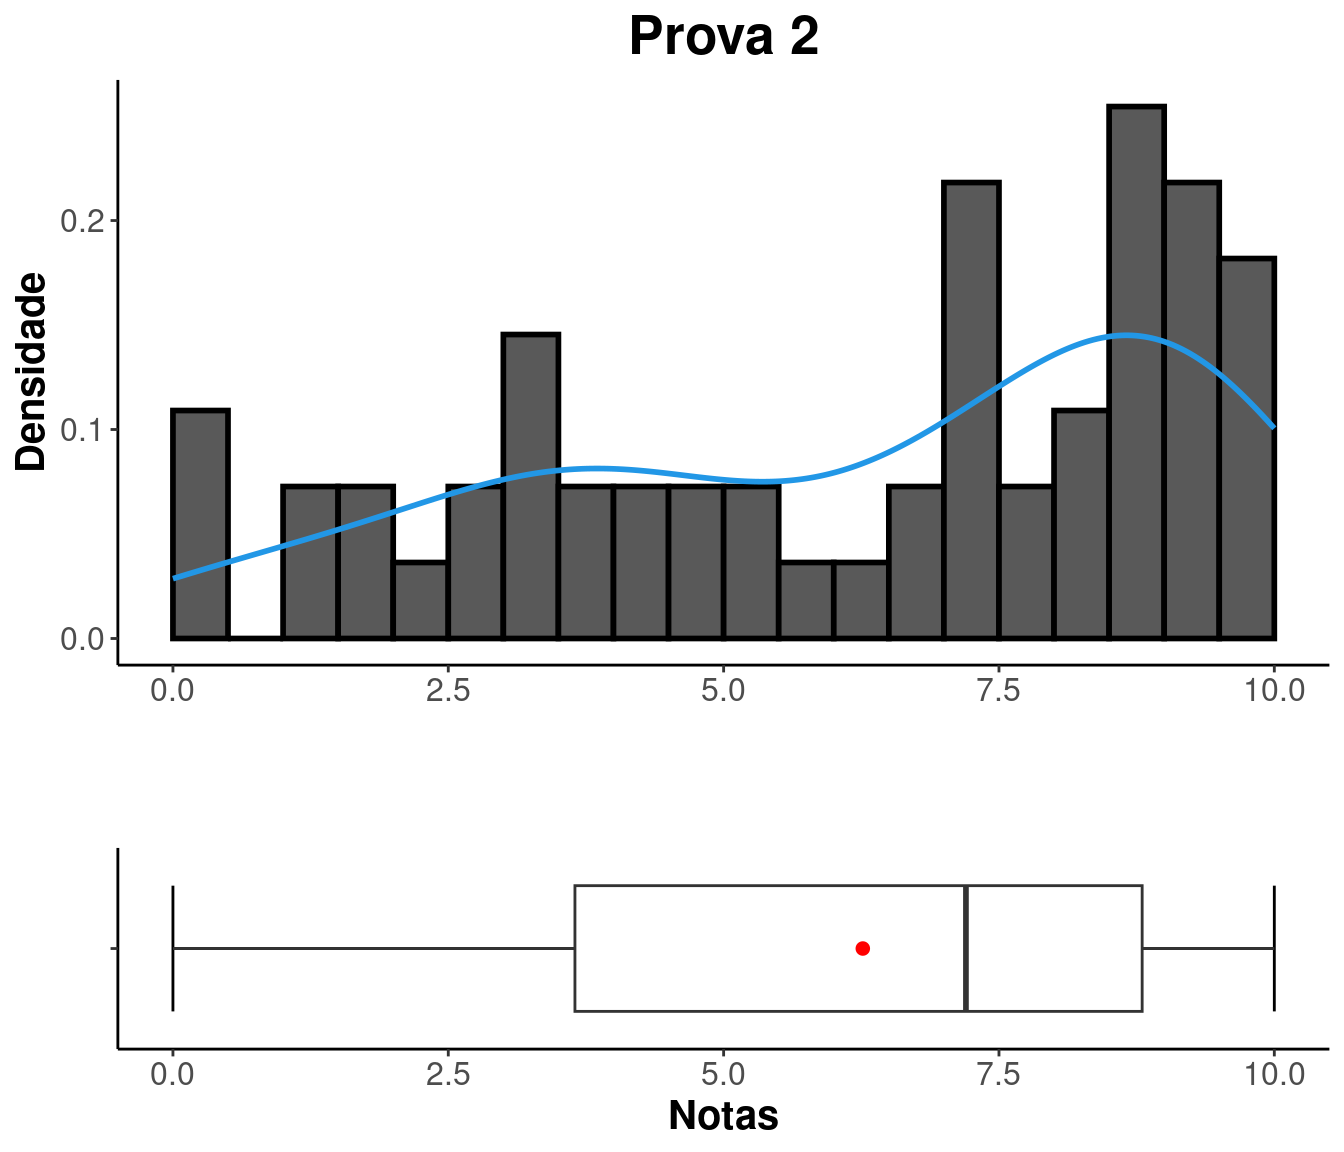
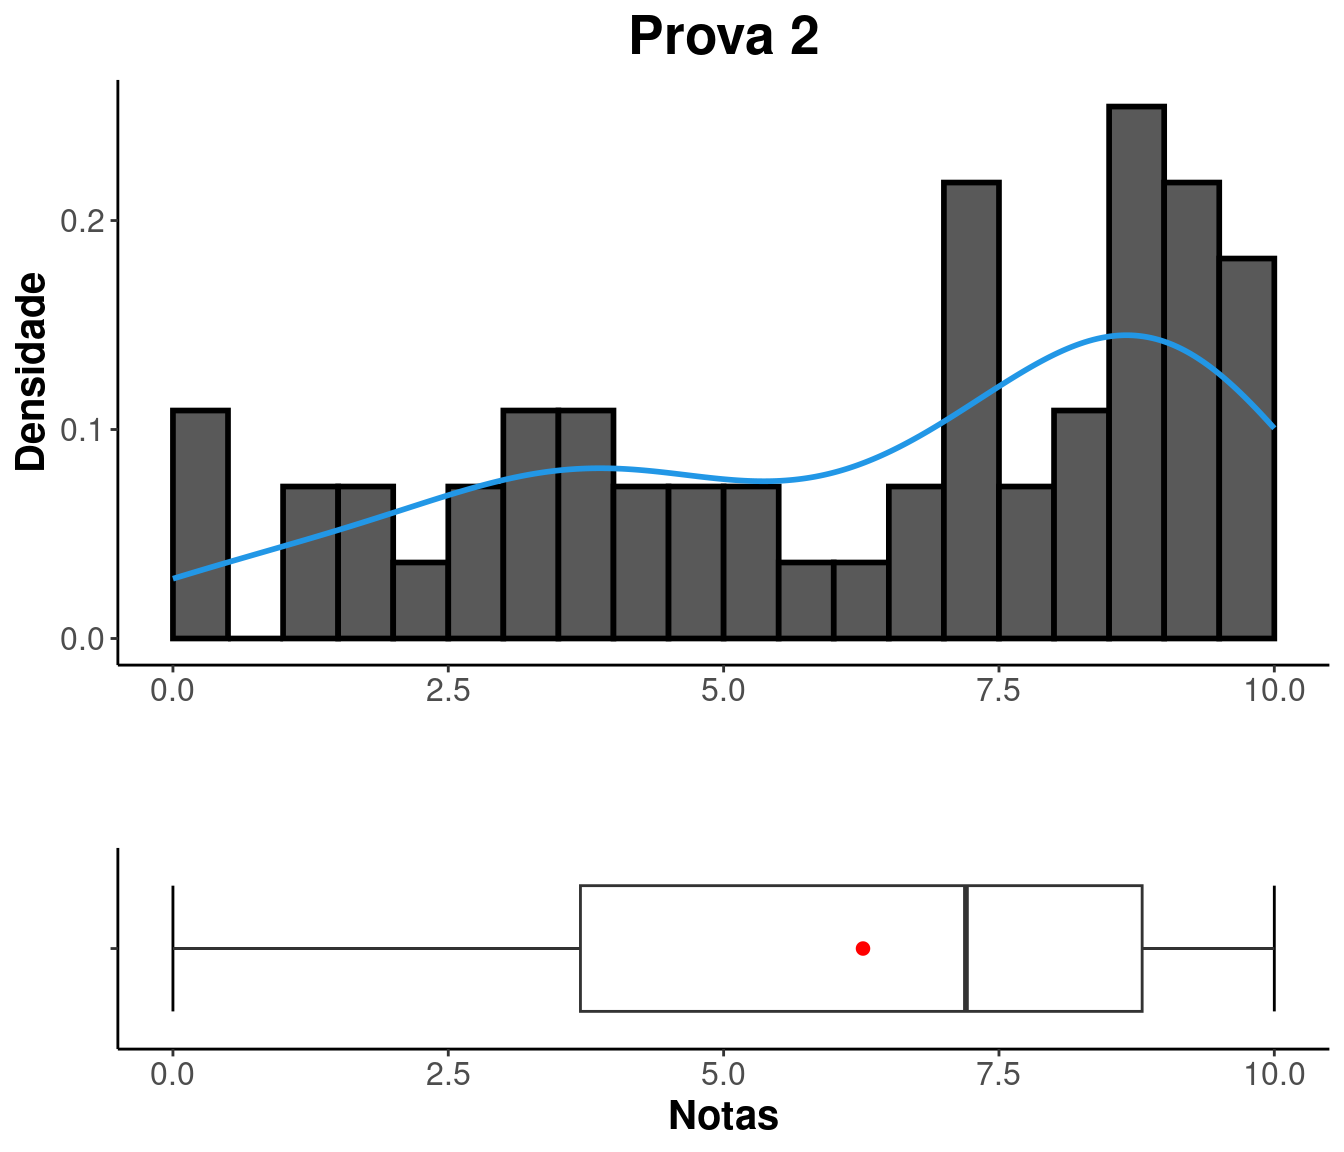
corrige notas

Changed region(s): [[0.375, 0.2812, 0.4688, 0.4375], [0.4062, 0.7812, 0.4375, 0.875]]

diff --git a/notas.html b/notas.html
@@ -299,8 +299,8 @@ $(document).ready(function () {
 <p>Busque sua situação digitando seu GRR na caixa “Search”.</p>
 <p><br />
 </p>
-<div class="datatables html-widget html-fill-item-overflow-hidden html-fill-item" id="htmlwidget-af69a91738f82743419b" style="width:100%;height:auto;"></div>
-<script type="application/json" data-for="htmlwidget-af69a91738f82743419b">{"x":{"filter":"none","vertical":false,"editable":{"target":"cell","disable":{"columns":null},"numeric":[1,2,3,4,5,6,7],"date":[]},"data":[["GRR20202867","GRR20233282","GRR20212072","GRR20231118","GRR20213124","GRR20224343","GRR20209982","GRR20220346","GRR20210855","GRR20230070","GRR20221230","GRR20207029","GRR20220343","GRR20214971","GRR20231988","GRR20234980","GRR20206813","GRR20223153","GRR20221067","GRR20211793","GRR20232021","GRR20224162","GRR20214982","GRR20221227","GRR20233296","GRR20233291","GRR20221063","GRR20186966","GRR20231130","GRR20215428","GRR20232331","GRR20220348","GRR20224544","GRR20224379","GRR20211348","GRR20221864","GRR20205086","GRR20222004","GRR20221038","GRR20224437","GRR20214640","GRR20221036","GRR20233308","GRR20233310","GRR20186173","GRR20223808","GRR20220355","GRR20214637","GRR20220350","GRR20224579","GRR20196247","GRR20233281","GRR20222007","GRR20205804","GRR20233311","GRR20221233","GRR20223829","GRR20203968","GRR20215729","GRR20211333"],[4,6,66,64,8,10,2,10,0,6,2,4,4,2,2,66,0,2,4,0,6,6,0,4,14,4,6,2,10,8,6,10,0,0,2,10,10,2,6,8,4,8,2,6,6,6,2,6,10,18,10,8,8,4,4,0,0,6,4,4],[6.5,5.1,null,null,4,3.4,5.4,7.7,10,6.2,9.300000000000001,10,10,8.199999999999999,8.5,null,9.300000000000001,7.6,7.7,6.3,0.5,7.3,9.699999999999999,8.4,5.4,7,5.2,5.1,3.6,4,9.9,6.7,7.4,8,8.5,8.5,7.4,8.800000000000001,5.4,5.3,7.4,2.5,5.3,5.9,8,4.6,8.5,8.699999999999999,6.4,4,6.4,6,6.9,6.4,7.1,9.199999999999999,6.8,6,8.1,5.8],[3.5,9.4,null,null,1.3,4.7,3.3,9,9.300000000000001,2,8.5,9.800000000000001,9.9,7.5,8,null,9,3.5,3,8,0,9.9,6.5,8.800000000000001,8.800000000000001,7.5,3.8,1.5,5,0.3,10,8.699999999999999,5.2,8.800000000000001,9.199999999999999,5.2,null,7.3,8.5,null,9.199999999999999,8.300000000000001,9.699999999999999,6.6,7,8.800000000000001,4.5,9.1,2,0.3,6,9.300000000000001,4.5,7.2,3,7.1,7.2,2.5,3.5,4],[8.5,8.300000000000001,null,null,8.5,7.2,4.9,10,10,7,8.699999999999999,10,10,10,10,null,9.4,10,7.4,8.300000000000001,5.6,6.9,8.699999999999999,10,1.5,6.1,5.7,5.8,7.9,4.3,9.9,8.699999999999999,7.5,10,9.9,5.6,6.8,10,0,8,6.9,5.7,0,9.300000000000001,7.8,5.5,9.9,10,6.2,3.3,9.800000000000001,4.5,8.4,7.9,8,9.9,9.5,0,9.800000000000001,7.1],[7.4,6.6,null,null,6.6,6.1,4.6,8.1,9,0,0,8.5,9.4,0,6.8,null,9.6,6.3,0,6.3,0,8.199999999999999,7.7,0,6.3,6.4,6.6,2.1,7.4,6.2,10,7.6,6,9.699999999999999,8.199999999999999,6.3,0,9.6,3.4,4.2,8,4.3,6.8,5.9,0,4.7,8.1,9.199999999999999,0,1.7,0,0,8.1,6.1,6.3,9.1,9.4,0,7,7.8],[5.5,5.9,null,null,4.4,5,5.9,8.300000000000001,8.1,0,1.7,9.300000000000001,9.6,7.8,8.800000000000001,null,8.4,8.4,2.1,8.4,0,4.8,5.8,9.4,4.5,6.5,5.2,2.2,5.2,3.4,8.9,9,6.3,8.9,8.4,4.2,0,8.1,4,0,7.9,5.5,5.9,6.6,4.2,4.4,5.5,9.5,0,5.3,8.9,2.1,6.8,8.5,6.6,9.699999999999999,9.199999999999999,4.5,4.6,5.3],[3.84,4.93,null,null,2.54,3.17,3.14,5.83,6.52,2.49,5.1,6.69,6.79,5.04,5.73,null,6.29,4.32,3.27,5.01,0.48,5.54,5.44,5.51,4.32,4.81,3.34,2.28,3.43,1.94,6.78,5.43,4.39,5.99,6.08,4.43,2.28,5.76,3.94,2.09,5.58,3.67,4.54,4.49,4.5,4.26,4.72,6.24,2.49,1.72,4.27,4.24,4.31,4.81,3.83,5.87,5.26,2.41,4.24,3.71]],"container":"<table class=\"cell-border stripe\">\n  <thead>\n    <tr>\n      <th>GRR<\/th>\n      <th>FALTAS<\/th>\n      <th>PROVA 1<\/th>\n      <th>PROVA 2<\/th>\n      <th>REMOTA 1<\/th>\n      <th>REMOTA 2<\/th>\n      <th>REMOTA 3<\/th>\n      <th>PARCIAL<\/th>\n    <\/tr>\n  <\/thead>\n<\/table>","options":{"columnDefs":[{"className":"dt-right","targets":[1,2,3,4,5,6,7]}],"order":[],"autoWidth":false,"orderClasses":false}},"evals":[],"jsHooks":[]}</script>
+<div class="datatables html-widget html-fill-item-overflow-hidden html-fill-item" id="htmlwidget-333df1e39032488c9e16" style="width:100%;height:auto;"></div>
+<script type="application/json" data-for="htmlwidget-333df1e39032488c9e16">{"x":{"filter":"none","vertical":false,"editable":{"target":"cell","disable":{"columns":null},"numeric":[1,2,3,4,5,6,7],"date":[]},"data":[["GRR20202867","GRR20233282","GRR20212072","GRR20231118","GRR20213124","GRR20224343","GRR20209982","GRR20220346","GRR20210855","GRR20230070","GRR20221230","GRR20207029","GRR20220343","GRR20214971","GRR20231988","GRR20234980","GRR20206813","GRR20223153","GRR20221067","GRR20211793","GRR20232021","GRR20224162","GRR20214982","GRR20221227","GRR20233296","GRR20233291","GRR20221063","GRR20186966","GRR20231130","GRR20215428","GRR20232331","GRR20220348","GRR20224544","GRR20224379","GRR20211348","GRR20221864","GRR20205086","GRR20222004","GRR20221038","GRR20224437","GRR20214640","GRR20221036","GRR20233308","GRR20233310","GRR20186173","GRR20223808","GRR20220355","GRR20214637","GRR20220350","GRR20224579","GRR20196247","GRR20233281","GRR20222007","GRR20205804","GRR20233311","GRR20221233","GRR20223829","GRR20203968","GRR20215729","GRR20211333"],[4,6,66,64,8,10,2,10,0,6,2,4,4,2,2,66,0,2,4,0,6,6,0,4,14,4,6,2,10,8,6,10,0,0,2,10,10,2,6,8,4,8,2,6,6,6,2,6,10,18,10,8,8,4,4,0,0,6,4,4],[6.5,5.1,null,null,4,3.4,5.4,7.7,10,6.2,9.300000000000001,10,10,8.199999999999999,8.5,null,9.300000000000001,7.6,7.7,6.3,0.5,7.3,9.699999999999999,8.4,5.4,7,5.2,5.1,3.6,4,9.9,6.7,7.4,8,8.5,8.5,7.4,8.800000000000001,5.4,5.3,7.4,2.5,5.3,5.9,8,4.6,8.5,8.699999999999999,6.4,4,6.4,6,6.9,6.4,7.1,9.199999999999999,6.8,6,8.1,5.8],[3.5,9.4,null,null,1.3,4.7,3.3,9,9.300000000000001,2,8.5,9.800000000000001,9.9,7.5,8,null,9,3.6,3,8,0,9.9,6.5,8.800000000000001,8.800000000000001,7.5,3.8,1.5,5,0.3,10,8.699999999999999,5.2,8.800000000000001,9.199999999999999,5.2,null,7.3,8.5,null,9.199999999999999,8.300000000000001,9.699999999999999,6.6,7,8.800000000000001,4.5,9.1,2,0.3,6,9.300000000000001,4.5,7.2,3,7.1,7.2,2.5,3.5,4],[8.5,8.300000000000001,null,null,8.5,7.2,4.9,10,10,7,8.699999999999999,10,10,10,10,null,9.4,10,7.4,8.300000000000001,5.6,6.9,8.699999999999999,10,1.5,6.1,5.7,5.8,7.9,4.3,9.9,8.699999999999999,7.5,10,9.9,5.6,6.8,10,0,8,6.9,5.7,0,9.300000000000001,7.8,5.5,9.9,10,6.2,3.3,9.800000000000001,4.5,8.4,7.9,8,9.9,9.5,0,9.800000000000001,7.1],[7.4,6.6,null,null,6.6,6.1,4.6,8.1,9,0,0,8.5,9.4,0,6.8,null,9.6,6.3,0,6.3,0,8.199999999999999,7.7,0,6.3,6.4,6.6,2.1,7.4,6.2,10,7.6,6,9.699999999999999,8.199999999999999,6.3,0,9.6,3.4,4.2,8,4.3,6.8,5.9,0,4.7,8.1,9.199999999999999,0,1.7,0,0,8.1,6.1,6.3,9.1,9.4,0,7,7.8],[5.5,5.9,null,null,4.4,5,5.9,8.300000000000001,8.1,0,1.7,9.300000000000001,9.6,7.8,8.800000000000001,null,8.4,8.4,2.1,8.4,0,4.8,5.8,9.4,4.5,6.5,5.2,2.2,5.2,3.4,8.9,9,6.3,8.9,8.4,4.2,0,8.1,4,0,7.9,5.5,5.9,6.6,4.2,4.4,5.5,9.5,0,5.3,8.9,2.1,6.8,8.5,6.6,9.699999999999999,9.199999999999999,4.5,4.6,5.3],[3.84,4.93,null,null,2.54,3.17,3.14,5.83,6.52,2.49,5.1,6.69,6.79,5.04,5.73,null,6.29,4.34,3.27,5.01,0.48,5.54,5.44,5.51,4.32,4.81,3.34,2.28,3.43,1.94,6.78,5.43,4.39,5.99,6.08,4.43,2.28,5.76,3.94,2.09,5.58,3.67,4.54,4.49,4.5,4.26,4.72,6.24,2.49,1.72,4.27,4.24,4.31,4.81,3.83,5.87,5.26,2.41,4.24,3.71]],"container":"<table class=\"cell-border stripe\">\n  <thead>\n    <tr>\n      <th>GRR<\/th>\n      <th>FALTAS<\/th>\n      <th>PROVA 1<\/th>\n      <th>PROVA 2<\/th>\n      <th>REMOTA 1<\/th>\n      <th>REMOTA 2<\/th>\n      <th>REMOTA 3<\/th>\n      <th>PARCIAL<\/th>\n    <\/tr>\n  <\/thead>\n<\/table>","options":{"columnDefs":[{"className":"dt-right","targets":[1,2,3,4,5,6,7]}],"order":[],"autoWidth":false,"orderClasses":false}},"evals":[],"jsHooks":[]}</script>
 <hr />
 </div>
 <div id="análise-das-notas"
@@ -368,10 +368,10 @@ class="section level1 tabset tabset-fade tabset-pills">
 <div id="prova-2" class="section level2">
 <h2>PROVA 2</h2>
 <center>
-<table style="width:68%;">
+<table style="width:67%;">
 <colgroup>
 <col width="12%" />
-<col width="9%" />
+<col width="8%" />
 <col width="11%" />
 <col width="13%" />
 <col width="8%" />
@@ -390,8 +390,8 @@ class="section level1 tabset tabset-fade tabset-pills">
 <tbody>
 <tr class="odd">
 <td align="center">0</td>
-<td align="center">3.65</td>
-<td align="center">6.264</td>
+<td align="center">3.7</td>
+<td align="center">6.265</td>
 <td align="center">7.2</td>
 <td align="center">8.8</td>
 <td align="center">10</td>
@@ -414,8 +414,8 @@ class="section level1 tabset tabset-fade tabset-pills">
 <tbody>
 <tr class="odd">
 <td align="center">10</td>
-<td align="center">8.841</td>
-<td align="center">2.973</td>
+<td align="center">8.831</td>
+<td align="center">2.972</td>
 </tr>
 </tbody>
 </table>
